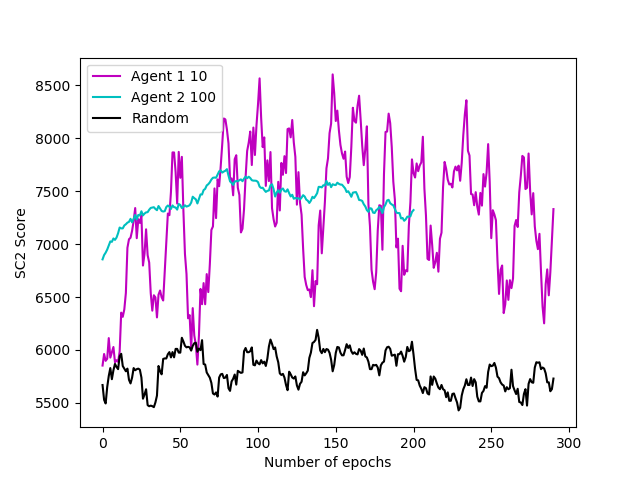
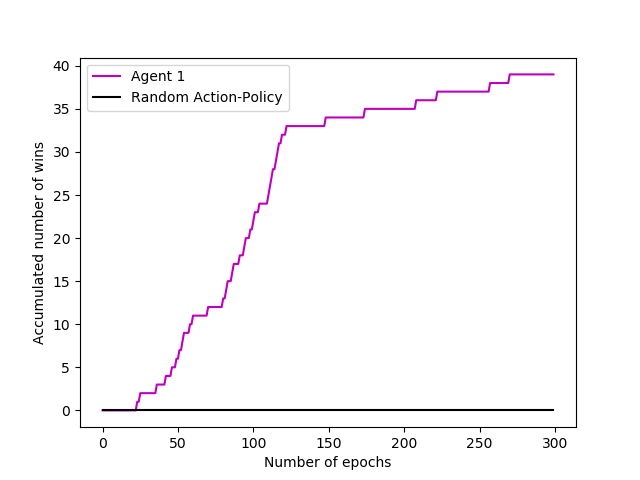
Work

diff --git a/misc/plot_game_result.py b/misc/plot_game_result.py
@@ -8,7 +8,7 @@ import pprint
 
 
 def save_fig(name, folder):
-    path_to_res = join("../result/frozen/", folder)
+    path_to_res = join("../result/game/", folder)
 
     # Save fig to disk
     if not isdir(path_to_res):
@@ -75,13 +75,17 @@ def parse_score_per_round(last_round, curr_round, accumulator=0):
 
 def was_round_a_win(last_round, curr_round):
     diff = curr_round - last_round
-    return diff == 1, curr_round
+    return diff, curr_round
 
 
-def mark_won_epochs(won_epochs, avg_win):
-    return True
-    #for epoch in won_epochs:
-       #plt.plot(epoch, avg_win[epoch], 'ro', color='g', alpha=.7)
+def mark_epochs(won_epochs, avg_win, color):
+
+    filtered = []
+
+    for epoch in won_epochs:
+        filtered.append(avg_win[epoch])
+
+    plt.plot(won_epochs, filtered, 'ro', color=color, alpha=.7)
 
 
 def add_random_data(dir):
@@ -92,12 +96,11 @@ def add_random_data(dir):
 
     for run_params, files in random_runs.items():
         epochs, avg_win = calc_avg_win_per_epoch(dir, files, window=10)
-        plt.plot(epochs, avg_win, label="Random", color="k")
+        plt.plot(epochs, avg_win, label="Random Action-Policy", color="k")
 
         print(f"Len epoch {len(epochs)} len avg win {len(avg_win)}")
 
-        won_epochs = calc_won_epochs(dir, files)
-        mark_won_epochs(won_epochs, avg_win)
+        mark_won_and_drawn_epochs(dir, files, avg_win)
 
 
 def calc_won_epochs(dir, files):
@@ -116,14 +119,40 @@ def calc_won_epochs(dir, files):
                 epoch = int(row[0])
                 curr_round = float(row[1])
 
-                is_win, last_round = was_round_a_win(last_round, curr_round)
+                diff, last_round = was_round_a_win(last_round, curr_round)
 
-                if is_win:
+                if diff == 1:
                     won_epochs.append(epoch)
 
     print(f"Won {len(won_epochs)} epochs: {won_epochs} ")
 
     return won_epochs
+
+
+def calc_drawn_epochs(dir, files):
+
+    for file in files:
+
+        with open(join(dir, file), 'r') as csv_file:
+            data = csv.reader(csv_file, delimiter=',')
+
+            drawn_epochs = []
+
+            last_round = 0
+
+            for row in data:
+                # Parse data
+                epoch = int(row[0])
+                curr_round = float(row[1])
+
+                diff, last_round = was_round_a_win(last_round, curr_round)
+
+                if diff == 0:
+                    drawn_epochs.append(epoch)
+
+    print(f"Won {len(drawn_epochs)} epochs: {drawn_epochs} ")
+
+    return drawn_epochs
 
 
 def calc_avg_win_per_epoch(dir, files, window=1):
@@ -168,8 +197,15 @@ def calc_avg_win_per_epoch(dir, files, window=1):
     return epochs[:len(avg_win)], avg_win
 
 
+def mark_won_and_drawn_epochs(dir, files, avg_win):
+    won_epochs = calc_won_epochs(dir, files)
+    mark_epochs(won_epochs, avg_win, color='g')
+    drawn_epochs = calc_drawn_epochs(dir, files)
+    mark_epochs(drawn_epochs, avg_win, color='y')
+
+
 # Plot one plot with all runs avg
-def plot_game_res(dir):
+def plot_game_res(dir, name, ylabel, xlabel='Number of epochs'):
     # Constants
     nr_to_highlight = 5
     color = ['b', 'g', 'r', 'c', 'm']
@@ -184,36 +220,46 @@ def plot_game_res(dir):
     for run_params, files in all_runs.items():
         epochs, avg_win = calc_avg_win_per_epoch(dir, files, window=10)
 
-        won_epochs = calc_won_epochs(dir, files)
-        mark_won_epochs(won_epochs, avg_win)
+        mark_won_and_drawn_epochs(dir, files, avg_win)
 
-        label = f"Agent {test_nr} 10"
+        label = f"Agent {test_nr}"
         test_nr += 1
         translations[label] = run_params
         plt.plot(epochs, avg_win, label=label, color=color.pop())
 
-    # Plot the results
-    for run_params, files in all_runs.items():
-        epochs, avg_win = calc_avg_win_per_epoch(dir, files, window=100)
+    if False:
+        # Plot the results
+        for run_params, files in all_runs.items():
+            epochs, avg_win = calc_avg_win_per_epoch(dir, files, window=100)
 
-        won_epochs = calc_won_epochs(dir, files)
-        mark_won_epochs(won_epochs, avg_win)
+            won_epochs = calc_won_epochs(dir, files)
+            mark_epochs(won_epochs, avg_win)
 
-        label = f"Agent {test_nr} 100"
-        test_nr += 1
-        translations[label] = run_params
-        plt.plot(epochs, avg_win, label=label, color=color.pop())
+            label = f"Agent {test_nr} 100"
+            test_nr += 1
+            translations[label] = run_params
+            plt.plot(epochs, avg_win, label=label, color=color.pop())
 
     add_random_data("../Data/Game/random/train")
 
+    plt.plot([], [], 'ro', color='g', alpha=.7, label="Round Won")
+    plt.plot([], [], 'ro', color='y', alpha=.7, label="Round Drawn")
+
     # plt.title("All runs")
-    plt.xlabel('Number of epochs')
-    plt.ylabel('SC2 Score')
+    plt.xlabel(xlabel)
+    plt.ylabel(ylabel)
+
+    plt.ylim(5000, 9500)
+
     plt.legend()
 
-    save_fig("score_per_epoch.png", "")
+    save_fig(name + ".png", "")
 
     plt.show()
 
 
-plot_game_res("../Data/game/sc2_score/train")
+# Acc wins
+plot_game_res("../Data/game/sc2_score/train", ylabel='Accumulated wins', name='accumulated_wins')
+
+# Sc2 score
+plot_game_res("../Data/game/sc2_score/train", ylabel='Rolling mean of score per epoch', name='sc2_score_window_100')

diff --git a/misc/plot_MTB_imi_result.py b/misc/plot_MTB_imi_result.py
@@ -67,7 +67,7 @@ def add_random_data(dir):
 
     for run_params, files in random_runs.items():
         epochs, avg_win = calc_avg_win_per_epoch(dir, files, no_imi=True)
-        plt.plot(epochs, avg_win, label="Random", color="k")
+        plt.plot(epochs, avg_win, label="Random Action-Policy", color="k")
 
 
 def calc_avg_win_per_epoch(dir, files, no_imi=False):
